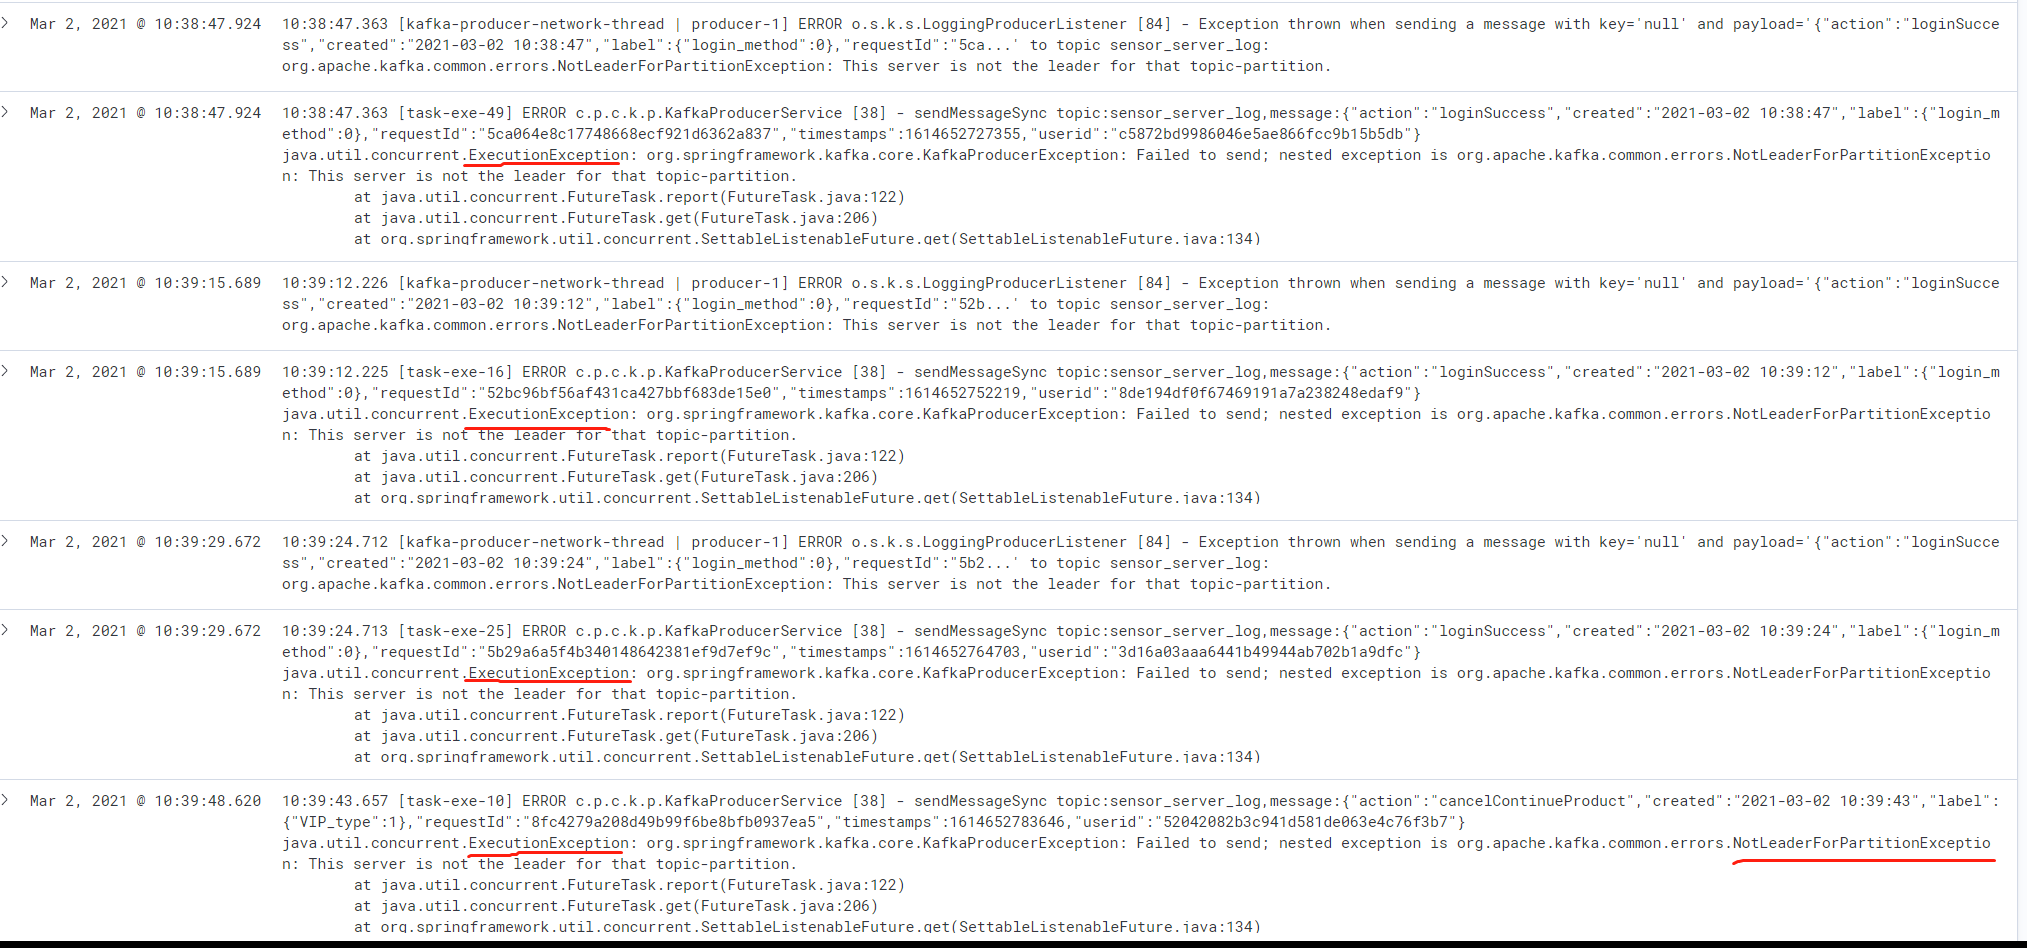
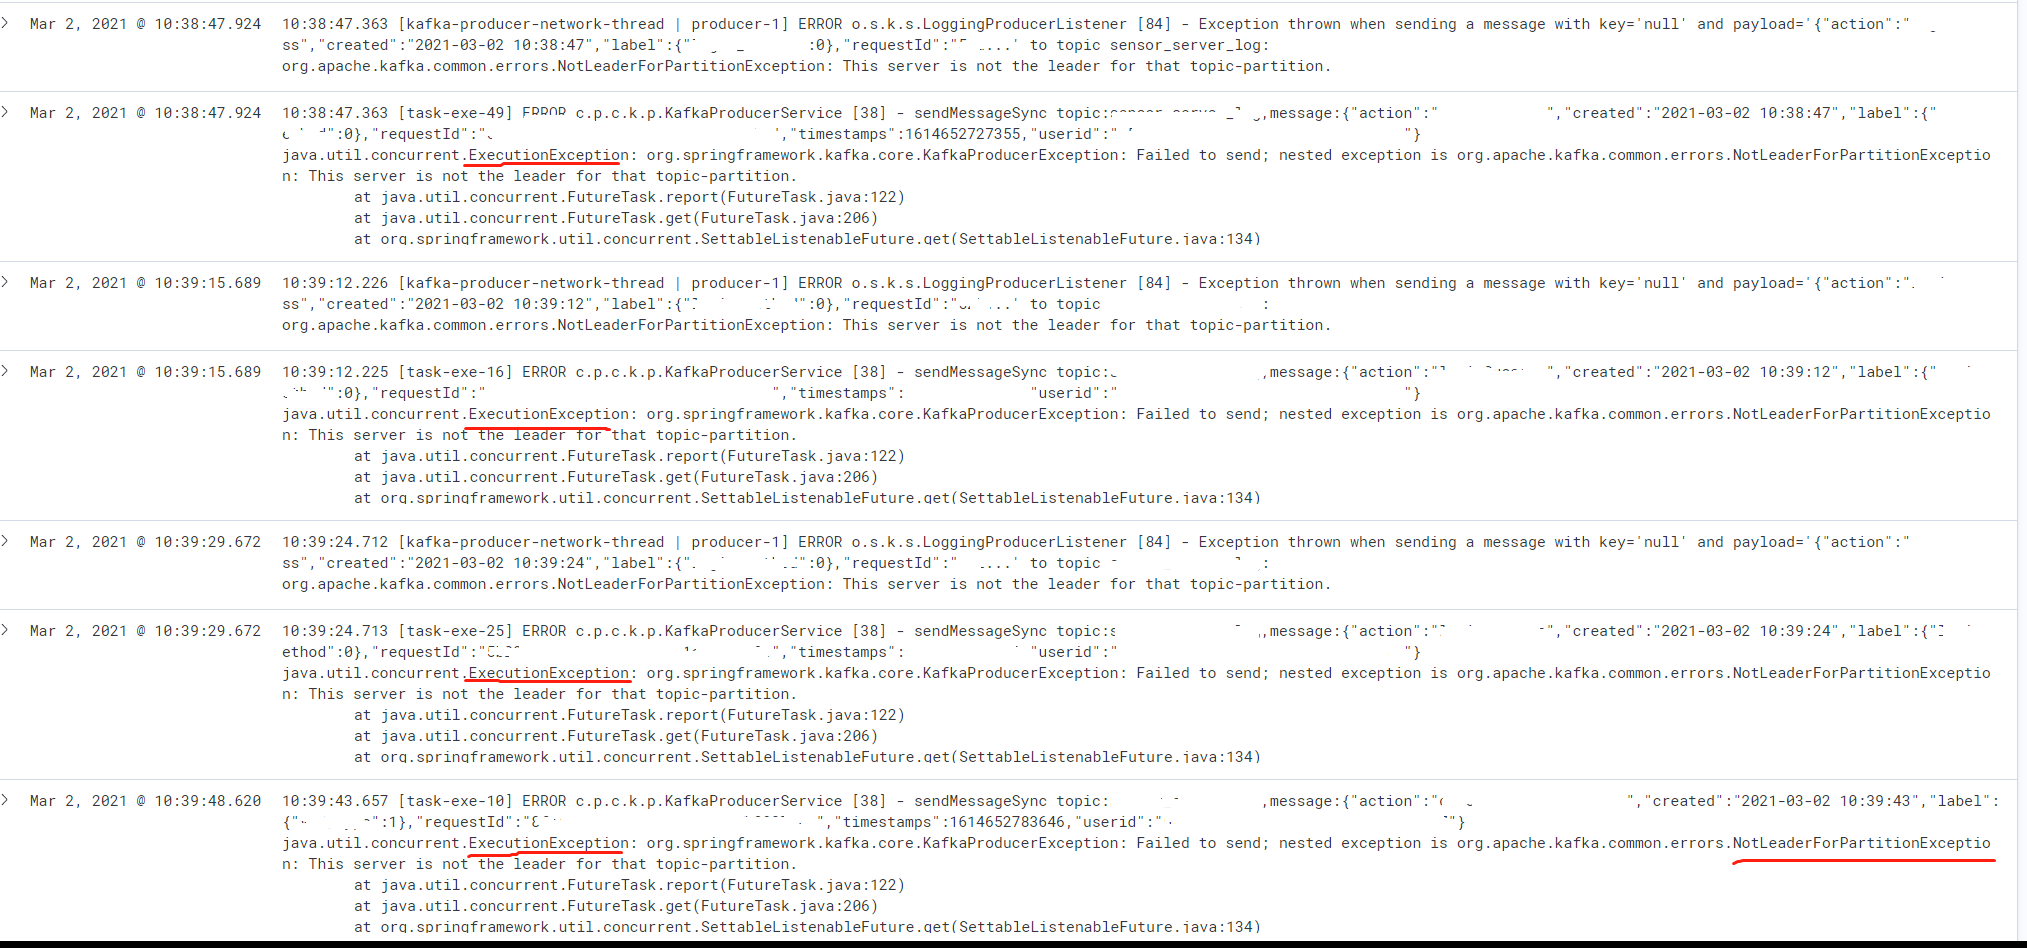
图片脱敏处理

diff --git a/source/_posts/Kafka选举导致的问题.md b/source/_posts/Kafka选举导致的问题.md
@@ -1,0 +1,47 @@
+---
+title: Kafka选举导致的问题
+date: 2021-05-06 19:16:21
+categories: 
+- [大数据]
+---
+
+线上Kafka集群由于分区达到上限，出现了选举，ISR列表发生了变更，通过kibana的日志分析：
+
+![img](Kafka选举导致的问题/image2021-3-3 10_46_48.png)
+
+单个异常栈如下：
+
+![img](Kafka选举导致的问题/image2021-3-3 10_49_22.png)
+
+消费业务代码如下：
+
+![img](Kafka选举导致的问题/image2021-3-3 10_49_58.png)
+
+最终Future的超时代码如下：
+
+![img](Kafka选举导致的问题/image2021-3-3 10_51_25.png)
+
+根据堆栈和日志追踪到这里：
+
+![img](Kafka选举导致的问题/image2021-3-3 10_51_43.png)
+
+ 
+
+kafka阻塞目前会存在两个地方：
+
+1. 首次拉取Metadata会阻塞
+2. 由于Kafka的模型，Sender线程会处理RecordAccumulator，收集器的默认大小32M
+
+![img](Kafka选举导致的问题/image2021-3-3 10_54_13.png)
+
+![img](Kafka选举导致的问题/image2021-3-3 11_0_1.png)
+
+ ![img](Kafka选举导致的问题/image2021-3-3 11_5_31.png)
+
+修改方案：
+
+1. acks=1和retries=0参数矛盾，需查看retries代码是否会阻塞，印象中是扔到收集器后返回。
+2. 业务调用代码改成异步线程，send方法采用回调函数机制（应对第一次拉取Metadata卡住）
+3. 收集器容量塞满，目前是默认60s阻塞
+
+ 
